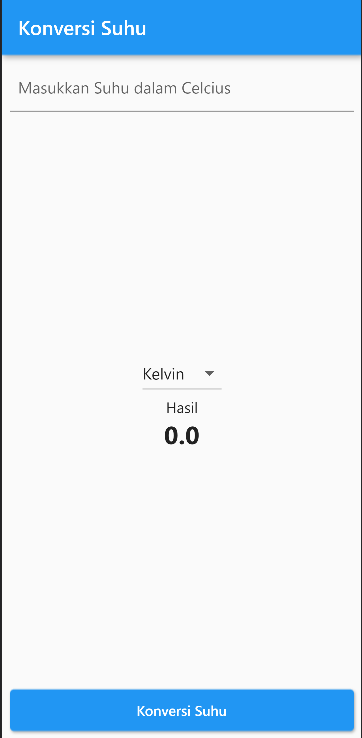
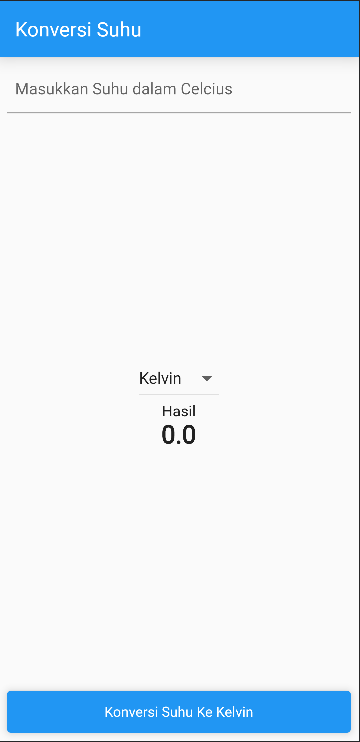
Minggu-11 adding Bab4 Submission Finishing

diff --git a/MingguKe-11/statefulwdgt/lib/main.dart b/MingguKe-11/statefulwdgt/lib/main.dart
@@ -54,7 +54,7 @@ class _HomeState extends State<Home> {
   void _conversionState() {
     setState(() {
       _inputUser = double.parse(myController.text);
-      if (dropDownVal == "Kelvin") {
+      if (_dropDownVal == "Kelvin") {
         _result = _inputUser + 273;
       } else {
         _result = (4 / 5) * _inputUser;
@@ -68,7 +68,7 @@ class _HomeState extends State<Home> {
     super.dispose();
   }
 
-  String dropDownVal = listItem.first;
+  String _dropDownVal = listItem.first;
 
   @override
   Widget build(BuildContext context) {
@@ -90,10 +90,10 @@ class _HomeState extends State<Home> {
                         listItem.map<DropdownMenuItem<String>>((String value) {
                       return DropdownMenuItem(value: value, child: Text(value));
                     }).toList(),
-                    value: dropDownVal,
+                    value: _dropDownVal,
                     onChanged: (String? val) {
                       setState(() {
-                        dropDownVal = val!;
+                        _dropDownVal = val!;
                       });
                     }),
                 const Text(
@@ -108,7 +108,7 @@ class _HomeState extends State<Home> {
             ),
             ElevatedButton(
               onPressed: _conversionState,
-              child: const Text("Konversi Suhu"),
+              child: Text('Konversi Suhu Ke $_dropDownVal'),
               style: ElevatedButton.styleFrom(
                   minimumSize: const Size.fromHeight(50)),
             )
